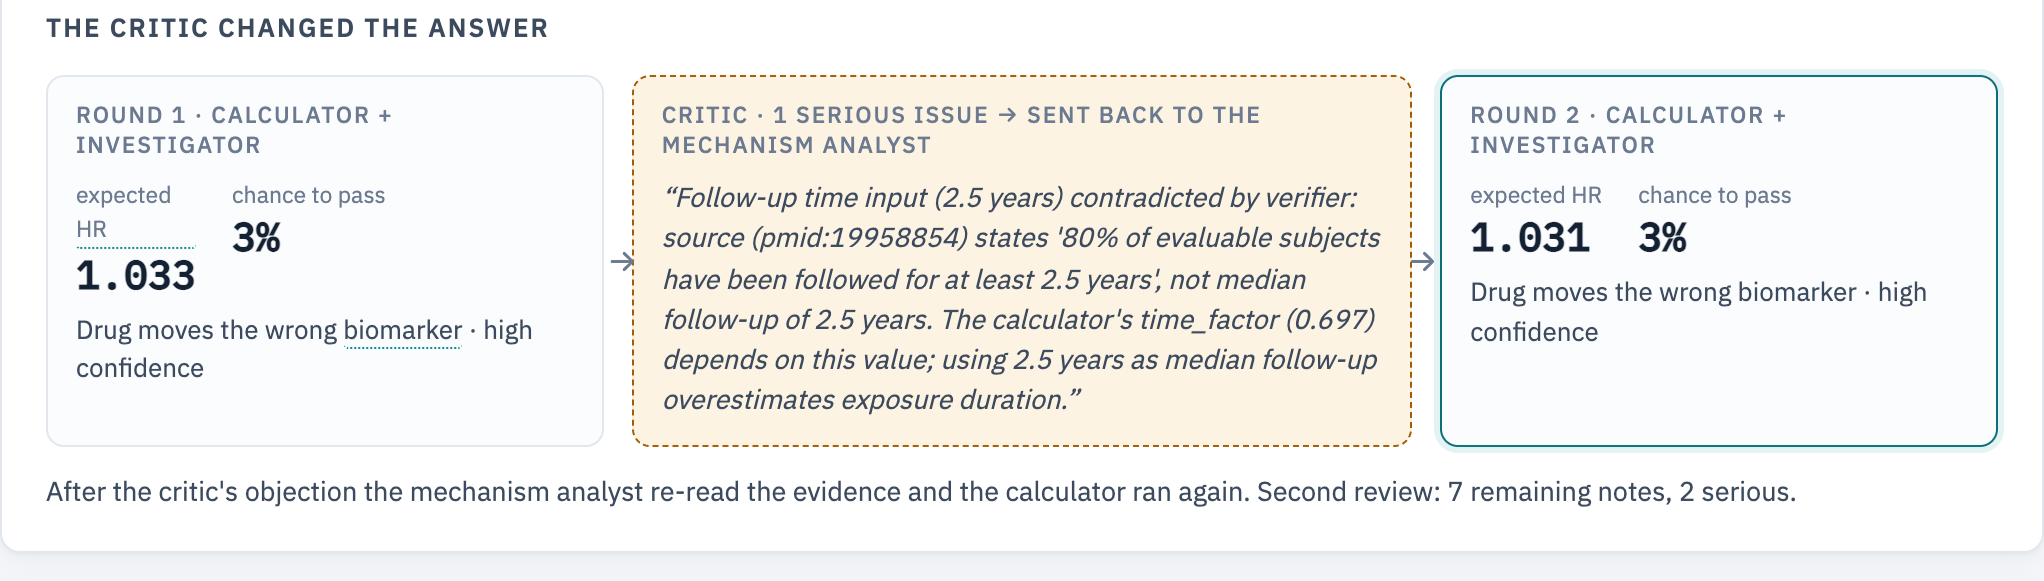
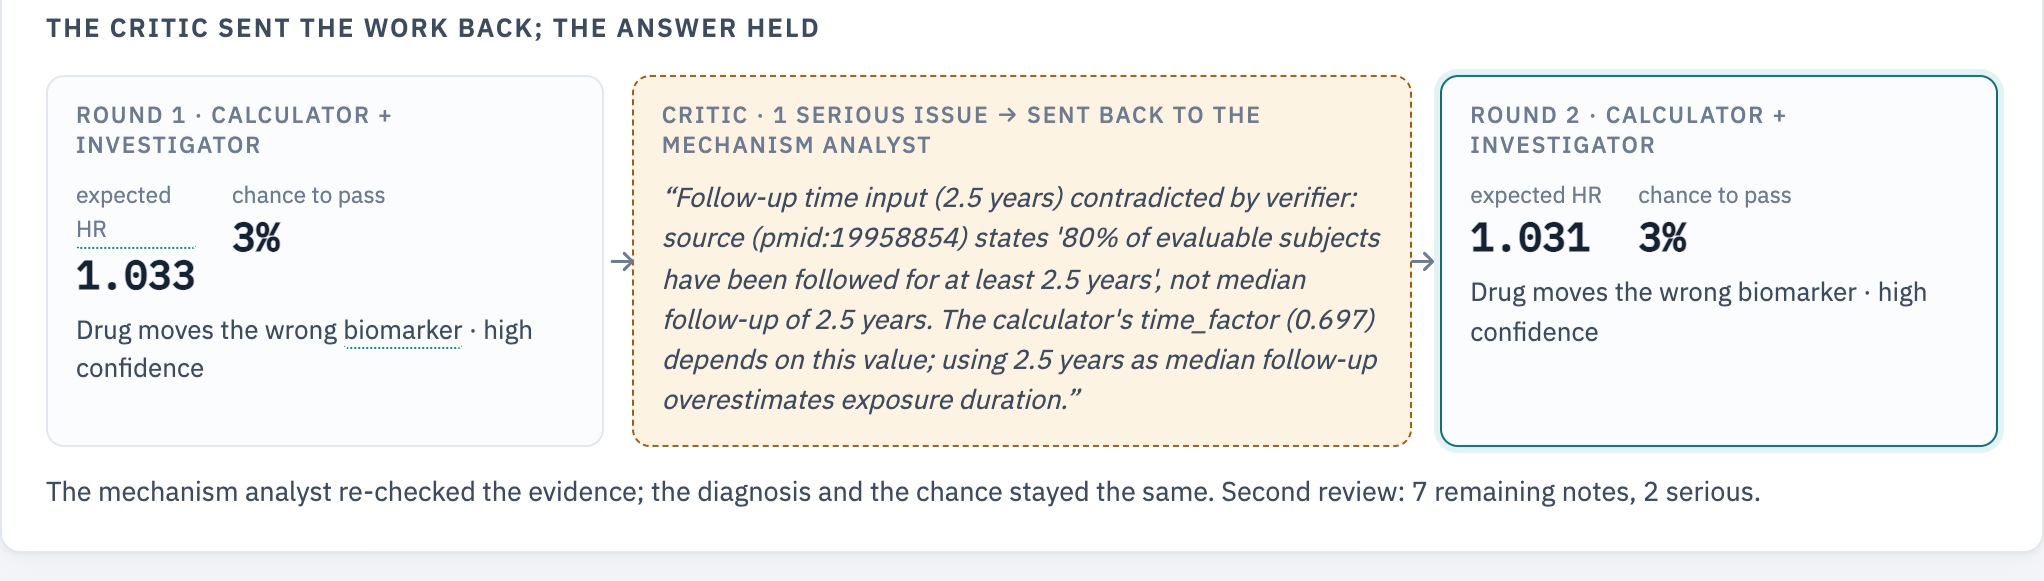
Call a critic round a changed answer only when the diagnosis, the chance or the HR moved materially
dal-OUTCOMES (HR 1.033 -> 1.031, 3% both rounds, same diagnosis) was shown as 'the critic changed the answer'.
The README also says plainly that in ACCELERATE the critic's round turned a correct failure call into a success.

Changed region(s): [[0.0, 0.8365, 0.8938, 0.8675], [0.0925, 0.031, 0.4007, 0.062]]

diff --git a/app/web/app.js b/app/web/app.js
@@ -1825,7 +1825,12 @@ async function renderCriticReview(res) {
   const first = reviews[0], high = (first.issues || []).filter((x) => x.severity === "high");
   if (reviews.length > 1 && rounds.length > 1) {
     const [r1, r2] = [rounds[0], rounds[rounds.length - 1]];
-    const changed = r1.hr !== r2.hr || r1.power !== r2.power || (r1.primary || r1.category) !== (r2.primary || r2.category);
+    // A material change only: a new diagnosis, a different chance as shown (whole percent) or an HR that moved by 0.01
+    // or more. 1.033 -> 1.031 with the same 3% and the same diagnosis means the answer held.
+    const moved = (a, b, same) => (a === null) !== (b === null) || (a !== null && !same(a, b));
+    const changed = moved(r1.hr, r2.hr, (a, b) => Math.abs(a - b) < 0.01)
+      || moved(r1.power, r2.power, (a, b) => Math.round(a * 100) === Math.round(b * 100))
+      || (r1.primary || r1.category) !== (r2.primary || r2.category);
     $("criticTitle").textContent = changed ? "The critic changed the answer" : "The critic sent the work back; the answer held";
     $("criticReview").innerHTML = `<div class="cr-flow">
       ${roundBox(r1, 0)}
@@ -1833,7 +1838,7 @@ async function renderCriticReview(res) {
         ${high.slice(0, 2).map((x) => `<p>“${esc(x.issue)}”</p>`).join("")}</div>
       ${roundBox(r2, rounds.length - 1)}</div>
       <p class="cr-note">${changed ? "After the critic's objection the mechanism analyst re-read the evidence and the calculator ran again. "
-        : "The mechanism analyst re-checked the evidence; the numbers did not change. "}
+        : "The mechanism analyst re-checked the evidence; the diagnosis and the chance stayed the same. "}
       Second review: ${lastNotes(reviews[reviews.length - 1])}.</p>`;
   } else {
     const list = issues(first).slice(0, 3);

diff --git a/app/web/index.html b/app/web/index.html
@@ -672,7 +672,7 @@
   <script src="/static/vendor/mermaid.min.js"></script>
   <script src="/static/vendor/3Dmol-min.js"></script>
   <script src="/static/glossary.js?v=15"></script>
-  <script src="/static/app.js?v=113"></script>
+  <script src="/static/app.js?v=115"></script>
   <script src="/static/motion.js?v=3"></script>
 </body>
 </html>

diff --git a/README.md b/README.md
@@ -305,7 +305,8 @@ What the misses teach:
 - **Six wrong forecasts, each with a reason.**
   - AURORA: rosuvastatin cut LDL-C by 41% in patients on dialysis, so the calculator expected a benefit; the trial failed because these patients' heart deaths are mostly not driven by cholesterol, and the agents named exactly that cause, *population*, as the experts did.
   - PROMINENT: earlier trials showed a modest drop in non-HDL-C; in the outcome trial LDL-C and apoB rose instead, which the documents before the readout could not show.
-  - ACCELERATE (54%), CLEAR Outcomes (37%) and SPIRE-2 (43%) sat in the uncertain middle, where a 50% rule is a coin flip.
+  - CLEAR Outcomes (37%) and SPIRE-2 (43%) sat in the uncertain middle, where a 50% rule is a coin flip.
+  - ACCELERATE: the first round called it right, a failure with a 22% chance. The critic sent the work back over the LDL-C input, and the second round raised the chance to 54% and turned the call into a success. A critic round can make an answer worse, and the report shows both rounds.
   - TNT: the analyst extracted a between-arm LDL-C difference of zero, flagged it as implausible, and passed it on anyway, so the calculator saw no effect.
 - **The outcome reader misread one announcement.** SPIRE-2 succeeded, but Pfizer's decision the same day to stop developing bococizumab was read as the trial's failure. The code was frozen by then, so this is reported as a miss rather than tuned away.
 - **Some trials cannot be sized blind.** In 14 of the 36 a number the calculator needs, such as the event count or the biomarker change, was not in the documents before the readout, so it says *not computable* instead of guessing. The agents still weigh the evidence: in 9 of those 14 they named the experts' main cause without a number to size it. In five of the six trials added after the freeze the archive held no measured lipid change before the readout (CARDS, three omega-3 trials, and CIRT, whose drug does not lower lipids), and the calculator abstained in every one.
